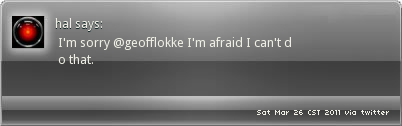
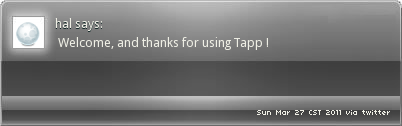
fix showpic error

Changed region(s): [[0.0299, 0.119, 0.7463, 0.4048], [0.6567, 0.8571, 0.9851, 0.9286], [0.1493, 0.4524, 0.2388, 0.5238]]

diff --git a/application/libraries/Retriever/drivers/Retriever_twitter.php b/application/libraries/Retriever/drivers/Retriever_twitter.php
@@ -74,8 +74,14 @@ class Retriever_twitter extends CI_Driver {
             $format = 'gif';
         }
         else {
-            file_put_contents($user_dir.'avatar.jpg', $ret);
-            $format = 'jpg';
+            if (@imagecreatefromstring($ret) === False) {
+                copy(FCPATH.'/users/avatar.png', $user_dir.'avatar.png');
+                $format = 'png';
+            }
+            else {
+                file_put_contents($user_dir.'avatar.jpg', $ret);
+                $format = 'jpg';
+            }
         }
         $time = date('D M j T Y', time());
         nowIMG($user, $user_dir, $latest, $time, $format);

diff --git a/application/helpers/function_helper.php b/application/helpers/function_helper.php
@@ -220,15 +220,15 @@ function nowIMG($user, $path, $data, $time, $format, $style = 0) {
 
                 imagesavealpha($image_tem, true);
                 imagealphablending($image_tem, false);
-                break;
+            break;
 
             case 'gif':
                 $image[0] = imagecreatefromgif($avatar);
-                break;
+            break;
 
             case 'jpg':
                 $image[0] = imagecreatefromjpeg($avatar);
-                break;
+            break;
         }
 
         imagecopyresampled($image_tem, $image[0], 0, 0, 0, 0, 32, 32, 48, 48);

diff --git a/application/controllers/clear.php b/application/controllers/clear.php
@@ -32,7 +32,7 @@ class Clear extends CI_Controller {
         }
 
         $this->load->model('Setting_model', '', True);
-        $this->Setting_model->reset_latest($this->session->userdata('uid'));
+        $this->Setting_model->reset($this->session->userdata('uid'));
 
         $this->load->driver('retriever');
         $this->retriever->twitter->retrieve_showimg($this->session->userdata('user'), $this->session->userdata('uid'));

diff --git a/application/models/setting_model.php b/application/models/setting_model.php
@@ -53,9 +53,9 @@ class Setting_model extends CI_Model {
         return $latest;
     }
 
-    public function reset_latest($uid) {
+    public function reset($uid) {
         $this->db->where('uid', $uid);
-        $this->db->update('setting', array('latest' => ''));
+        $this->db->update('setting', array('latest' => '', 'update_time' => 0));
     }
 
     public function get_user($id) {
